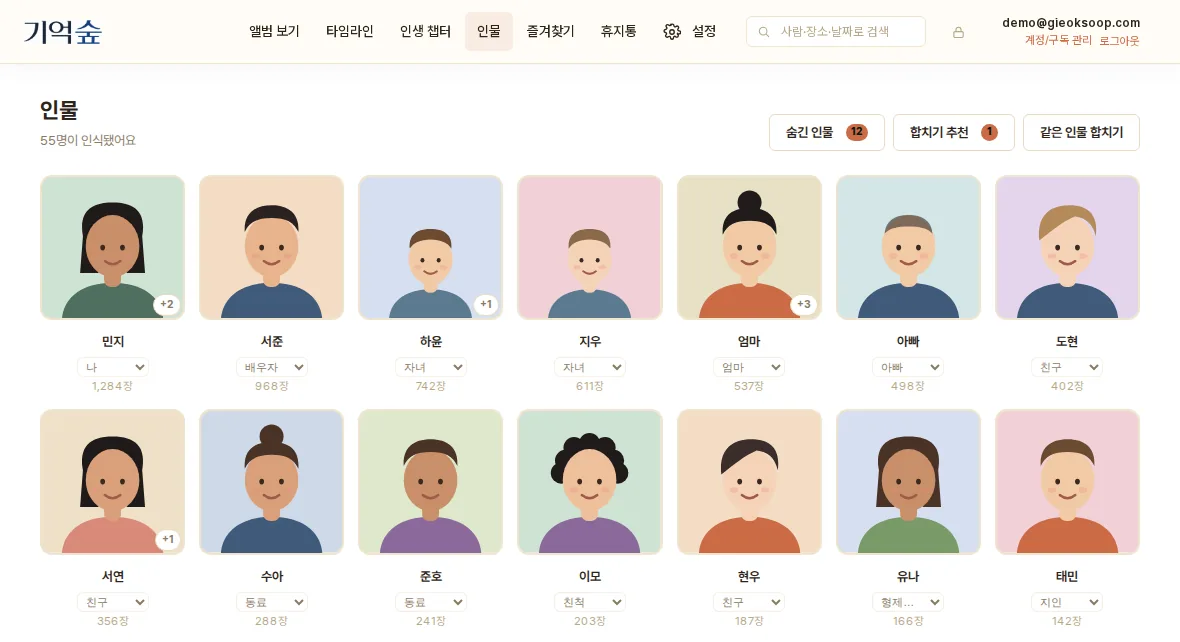
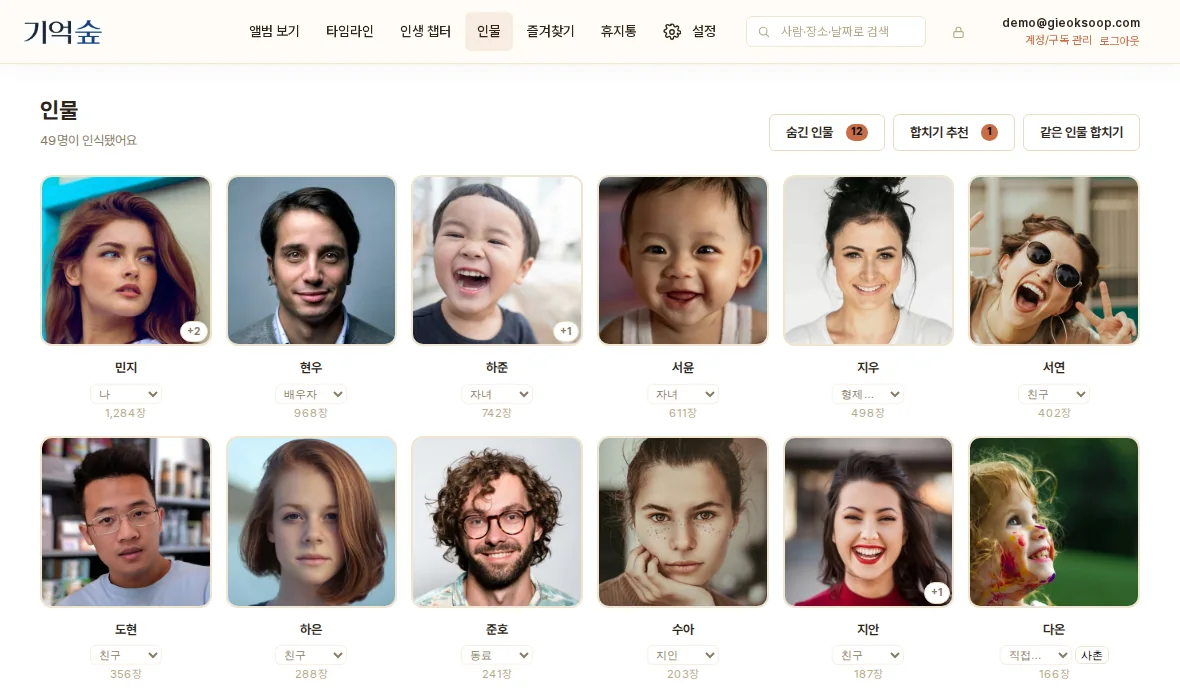
home: 인물 화면에 Unsplash 무료 인물 사진 적용
Claude-Session: https://claude.ai/code/session_01FE5CBbo67tHz65N91AAP61

diff --git a/index.html b/index.html
@@ -136,7 +136,7 @@
         <p>얼굴을 알아보고 사람별로 모아줘요. 아이가 자라온 시간, 오래된 친구와의 추억을 연도별로 따라가 보세요.</p>
         <p class="sub">잘못 묶인 사람은 직접 합치고 나눌 수 있어요.</p>
       </div>
-      <div class="lp-shot"><img src="img/demo/shot-people.webp" width="1180" height="642" alt="기억숲 인물 화면 예시" loading="lazy"></div>
+      <div class="lp-shot"><img src="img/demo/shot-people.webp" width="1180" height="700" alt="기억숲 인물 화면 예시" loading="lazy"></div>
     </div>
 
     <div class="lp-feat">
